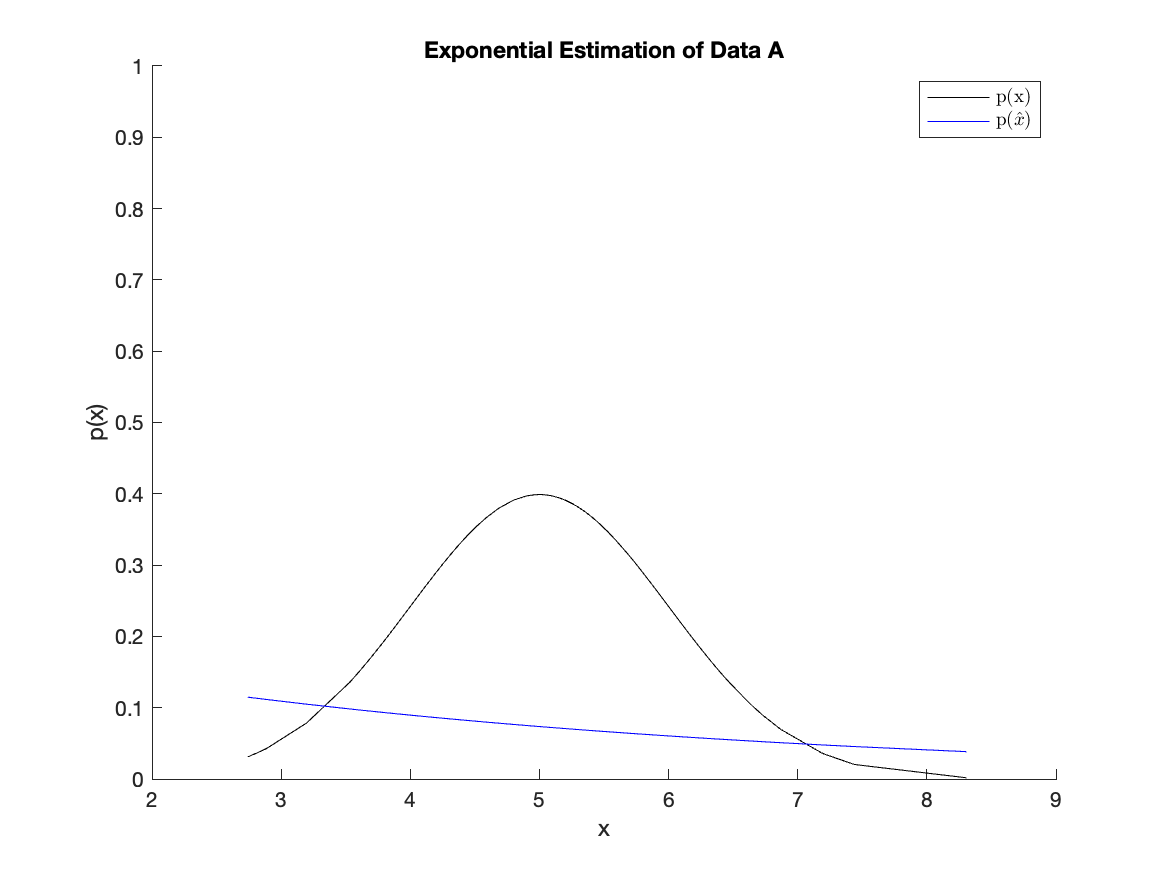
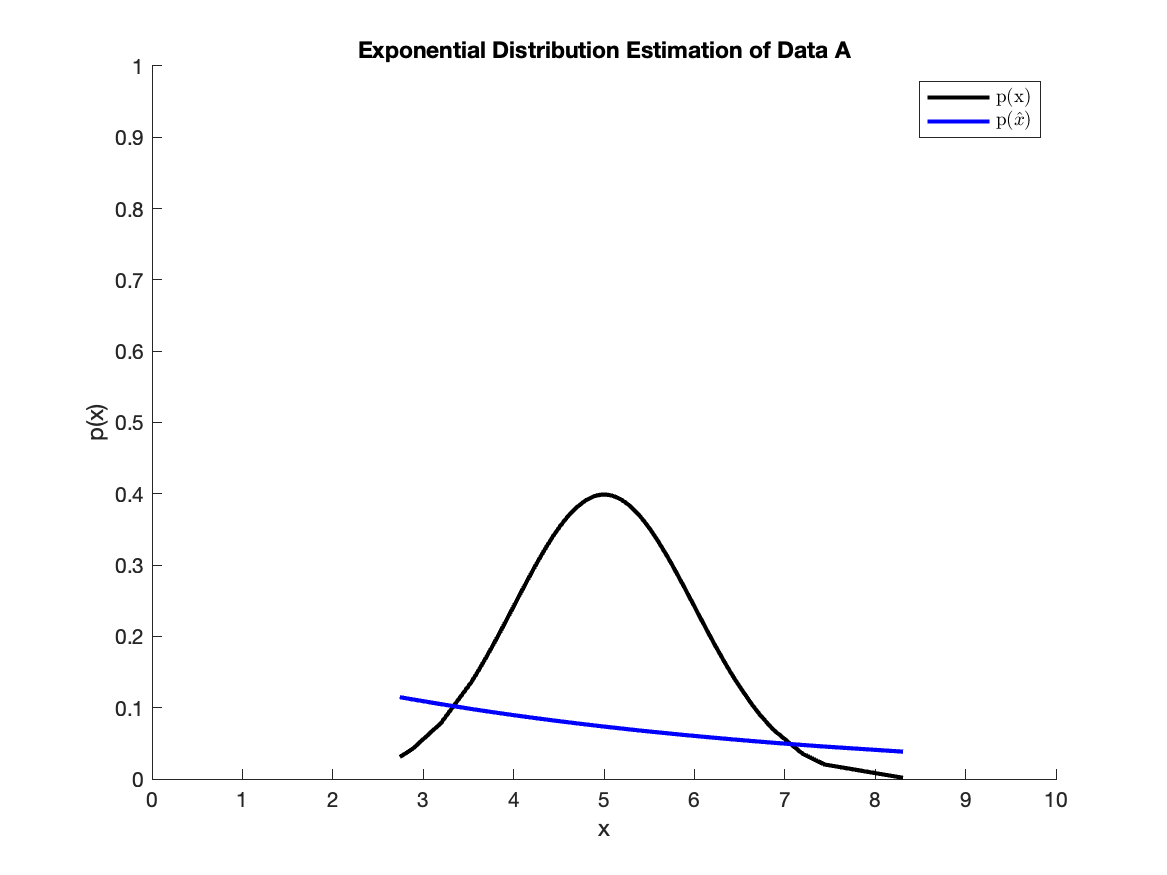
Reformatted uniform distribution

diff --git a/lab2/lab_2_code/Q1.m b/lab2/lab_2_code/Q1.m
@@ -5,65 +5,109 @@ data = matfile("lab_2_data/lab2_1.mat", "Writable", true);
 a = sort(data.a)';
 b = sort(data.b)';
 
+%% Class A
+
+% Gaussian Estimation
 [m, var] = estimate_gaussian(a);
 pd = normpdf(a, 5, 1);
 pd_ml = normpdf(a, m, sqrt(var));
 figure();
 hold on;
-plot(a, pd, "k");
-plot(a, pd_ml, "b");
+plot(a, pd, "k", "LineWidth", 2);
+plot(a, pd_ml, "b", "LineWidth", 2);
 hold off;
-title("Gaussian Estimation of Data A")
+title("Gaussian Distribution Estimation of Data A")
 xlabel("x");
 ylabel("p(x)");
+xlim([0 10]);
 ylim([0 1]);
 legend("p(x)", "p($$\hat{x}$$)", "Interpreter", "Latex");
 saveas(gcf, "img/A_normal.png");
 
+% Exponential Estimation
 pd_ml = fitdist(a, "exponential");
 pd_ml = pdf(pd_ml, a);
 figure();
 hold on;
-plot(a, pd, "k");
-plot(a, pd_ml, "b");
+plot(a, pd, "k", "LineWidth", 2);
+plot(a, pd_ml, "b", "LineWidth", 2);
 hold off;
-title("Exponential Estimation of Data A")
+title("Exponential Distribution Estimation of Data A")
 xlabel("x");
 ylabel("p(x)");
+xlim([0 10]);
 ylim([0 1]);
 legend("p(x)", "p($$\hat{x}$$)", "Interpreter", "Latex");
 saveas(gcf, "img/A_exp.png");
 
+% Uniform Estimation
+pd_ml = makedist('Uniform','lower', a(1),'upper', a(numel(a)));
+pd_ml = pdf(pd_ml, 0:.01:10);
+figure();
+hold on;
+plot(a, pd, "k", "LineWidth", 2);
+plot(0:.01:10, pd_ml, "b", "LineWidth", 2);
+hold off;
+title("Uniform Distribution Estimation of Data A")
+xlabel("x");
+ylabel("p(x)");
+xlim([0 10]);
+ylim([0 1]);
+legend("p(x)", "p($$\hat{x}$$)", "Interpreter", "Latex");
+saveas(gcf, "img/A_uniform.png");
 
+
+%% Class B
+
+% Gaussian Estimation
 [m, var] = estimate_gaussian(b);
 pd = exppdf(b, 1);
 pd_ml = normpdf(b, m, sqrt(var));
 figure();
 hold on;
-plot(b, pd, "k");
-plot(b, pd_ml, "b");
+plot(b, pd, "k", "LineWidth", 2);
+plot(b, pd_ml, "b", "LineWidth", 2);
 hold off;
-title("Gaussian Estimation of Data B")
+title("Gaussian Distribution Estimation of Data B")
 xlabel("x");
 ylabel("p(x)");
+xlim([0 5]);
 ylim([0 1]);
 legend("p(x)", "p($$\hat{x}$$)", "Interpreter", "Latex");
 saveas(gcf, "img/B_normal.png")
 
+% Exponential Estimation
 pd_ml = fitdist(b, "exponential");
 pd_ml = pdf(pd_ml, b);
 figure();
 hold on;
-plot(b, pd, "k");
-plot(b, pd_ml, "b");
+plot(b, pd, "k", "LineWidth", 2);
+plot(b, pd_ml, "b", "LineWidth", 2);
 hold off;
-title("Exponential Estimation of Data B")
+title("Exponential Distribution Estimation of Data B")
 xlabel("x");
 ylabel("p(x)");
+xlim([0 5]);
 ylim([0 1]);
 legend("p(x)", "p($$\hat{x}$$)", "Interpreter", "Latex");
 saveas(gcf, "img/B_exp.png");
 
+% Uniform Estimation
+pd_ml = makedist('Uniform','lower', b(1),'upper', b(numel(b)));
+pd_ml = pdf(pd_ml, 0:0.01:5);
+figure();
+hold on;
+plot(b, pd, "k", "LineWidth", 2);
+plot(0:0.01:5, pd_ml, "b", "LineWidth", 2);
+hold off;
+title("Uniform Distribution Estimation of Data B")
+xlabel("x");
+ylabel("p(x)");
+xlim([0 5]);
+ylim([0 1]);
+legend("p(x)", "p($$\hat{x}$$)", "Interpreter", "Latex");
+saveas(gcf, "img/B_uniform.png");
 
 
-% close("all");
+
+close("all");
